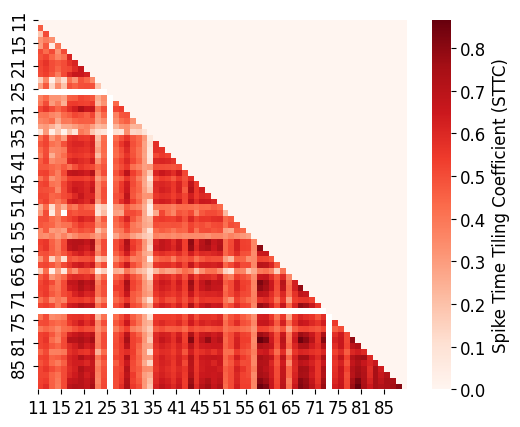
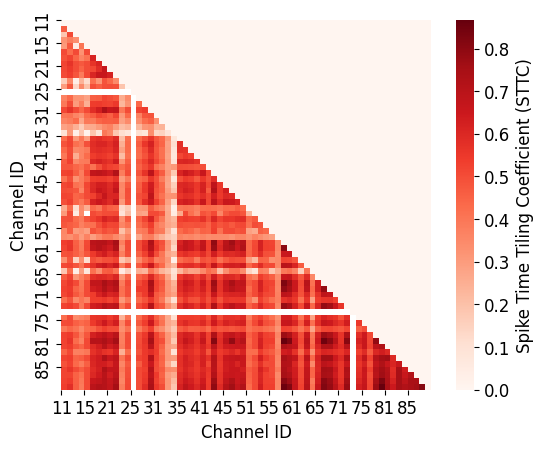
Fixed missing labels

diff --git a/_portfolio/Spike Time Tiling Coefficient.md b/_portfolio/Spike Time Tiling Coefficient.md
@@ -514,6 +514,8 @@ hm = sns.heatmap(STTC_lt,
             square=True);
 plt.xticks(range(0, len(channel_ids), 4), channel_ids[::4]);
 plt.yticks(range(0, len(channel_ids), 4), channel_ids[::4]);
+plt.xlabel("Channel ID")
+plt.ylabel("Channel ID")
 ```
 
 
